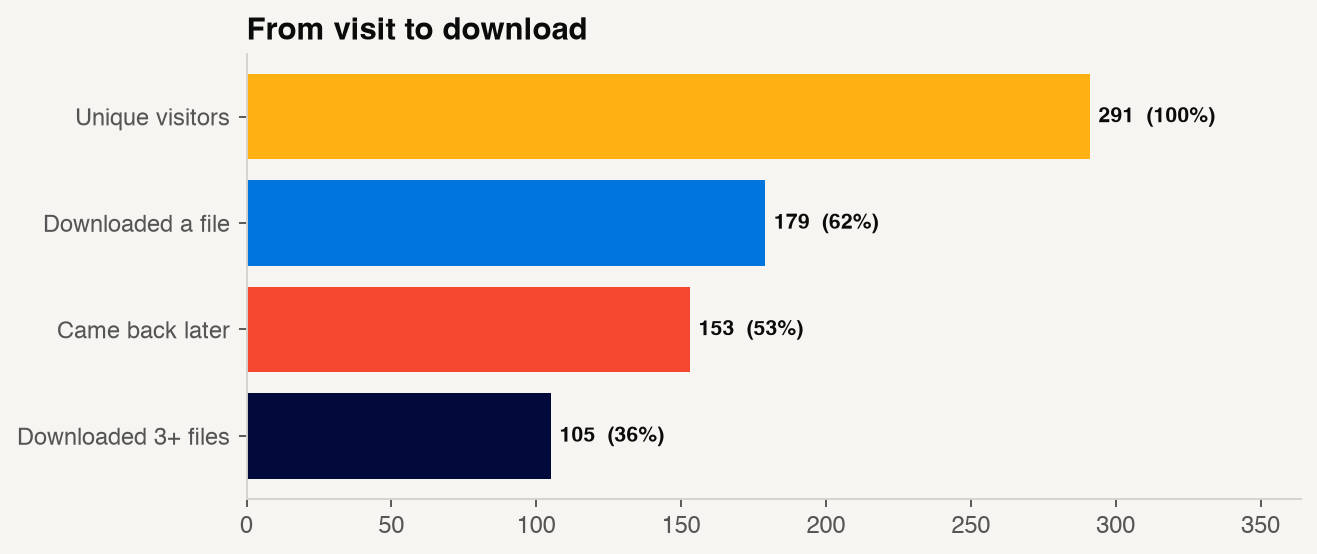
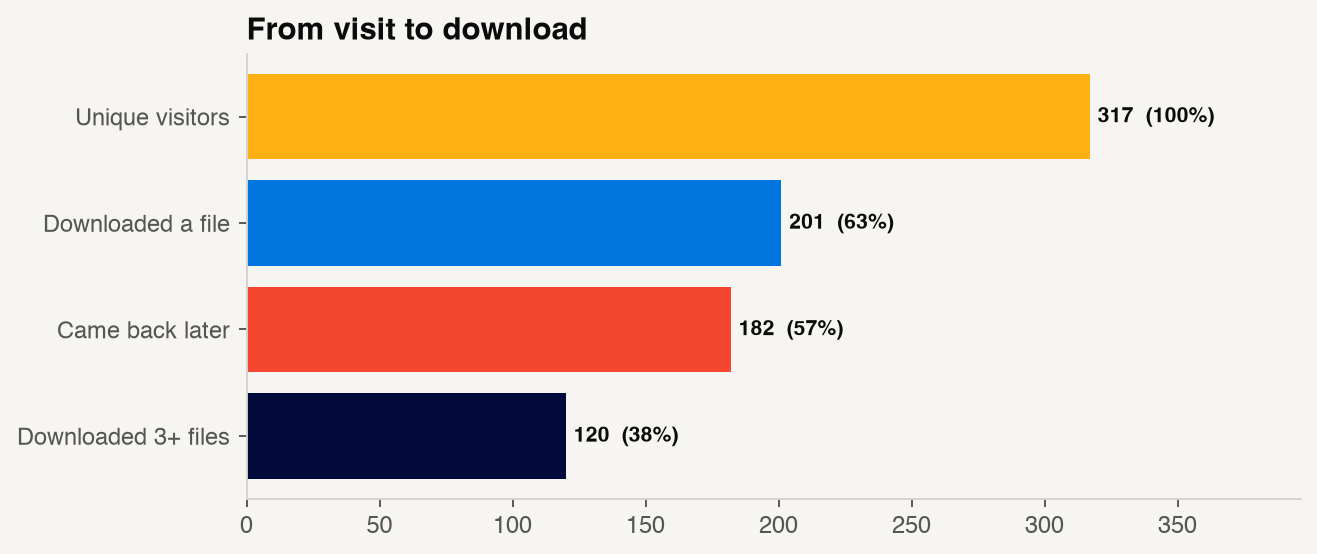
Refresh analytics to 55 hours of data

diff --git a/analytics/make_charts.py b/analytics/make_charts.py
@@ -9,7 +9,7 @@ d=json.load(open(DATA)); geo=json.load(open(GEO))
 IST=timezone(timedelta(hours=5,minutes=30))
 ts=lambda s: datetime.fromisoformat(s.replace("Z","+00:00")).astimezone(IST)
 V,E,G=d["visitors"],d["events"],d["gens"]; OK=[g for g in G if g["status"]=="ok"]
-LAB={"prcv":"PRCV","ml":"ML","dwdm":"DWDM","ds":"DS","rldl":"RLDL","cs_prcv1":"PRCV CS1","cs_prcv2":"PRCV CS2","cs_ml1":"ML CS1","cs_ml2":"ML CS2"}
+LAB={"prcv":"PRCV","ml":"ML","dwdm":"DWDM","ds":"DS","rldl":"RLDL","cs_prcv1":"PRCV CS1","cs_prcv2":"PRCV CS2","cs_ml1":"ML CS1","cs_ml2":"ML CS2","dsnew":"DS (new)"}
 BG="#f7f5f2"; INK="#0b0b0b"; Y="#ffb114"; B="#0075de"; R="#f5472f"; N="#020a3b"; LB="#62aef0"; PEACH="#f6d5bb"
 plt.rcParams.update({"font.family":"Helvetica","axes.facecolor":BG,"figure.facecolor":BG,"axes.edgecolor":"#d6d3cf","axes.spines.top":False,"axes.spines.right":False,"text.color":INK,"axes.labelcolor":INK,"xtick.color":"#555","ytick.color":"#555","axes.titleweight":"bold","axes.titlesize":13,"axes.titlelocation":"left"})
 def save(f,name): f.savefig(f"{OUT}/{name}.png",dpi=170,bbox_inches="tight",facecolor=BG); plt.close(f)

diff --git a/README.md b/README.md
@@ -17,11 +17,11 @@ Every semester, every engineering student has to submit a **lab record file**: t
 
 | | |
 |---|---|
-| **Labs covered** | 5 labs, 55 experiments, plus 4 case studies (9 downloadable products) |
-| **Time to a finished file** | a few seconds (median **3.3 s** click to file) |
+| **Labs covered** | 5 labs, 55 experiments, plus 4 case studies (10 downloadable products, including a second DS format) |
+| **Time to a finished file** | a few seconds (median **3.4 s** click to file) |
 | **Login** | none |
 | **Install** | none, runs in the browser, works on phones |
-| **First 44 hours live** | **291** unique visitors, **895** files delivered, **97.7 %** success rate |
+| **First 55 hours live** | **317** unique visitors, **1,041** files delivered, **97.9 %** success rate |
 
 ---
 
@@ -82,7 +82,7 @@ The second principle is the interesting one. Instead of storing thousands of nea
 
 ## 3. What it does
 
-**Choose** one of nine tiles: PRCV, ML, DWDM, DS, RLDL, or one of four case studies.
+**Choose** a tile: PRCV, ML, DWDM, DS (in the old or the new lab-record format), RLDL, or one of four case studies.
 
 **Personalise** with name, roll number, group, faculty, branch, semester and the computer name that appears in the terminal prompt. Only the name is required.
 
@@ -272,29 +272,29 @@ What that pipeline gave the files:
 
 ## 9. Launch analytics (anonymous)
 
-First **44 hours** after going live (17 Nov, 4 PM to 19 Nov, noon), measured from the product's own usage log (IST). Everything here is aggregated and anonymous.
+First **55 hours** after going live (17 Nov, 4 PM to 19 Nov, 11:30 PM), measured from the product's own usage log (IST). Everything here is aggregated and anonymous.
 
 ### Headline numbers
 
 | Metric | Value |
 |---|---|
-| Page views | **646** |
-| Unique visitors | **291** |
-| Files delivered | **895** |
-| Success rate | **97.7 %** |
-| Returning visitors | **153** (53 %) |
-| Visitors who downloaded at least once | **179** (62 %) |
-| Visitors who downloaded 3 or more files | **105** (36 %) |
-| Median time from click to finished file | **3.3 s** |
+| Page views | **781** |
+| Unique visitors | **317** |
+| Files delivered | **1,041** |
+| Success rate | **97.9 %** |
+| Returning visitors | **182** (57 %) |
+| Visitors who downloaded at least once | **201** (63 %) |
+| Visitors who downloaded 3 or more files | **120** (38 %) |
+| Median time from click to finished file | **3.4 s** |
 | Average file size | **about 3 MB** |
-| Total data delivered | **about 2.7 GB** |
+| Total data delivered | **about 3.2 GB** |
 | Real-time peak | **132 downloads in a single hour** |
 
 ### Traffic, hour by hour
 
 <p align="center"><img src="analytics/01_timeline.png" width="860" alt="Hourly traffic" /></p>
 
-It spread by word of mouth in class group chats: a first wave on the evening it launched, a quiet night, a bigger second day as more classes found it (479 downloads on day two versus 350 on launch day), and steady traffic continuing into day three. The peak hour carried **132 downloads**, handled with no queue, which is exactly the burst the "build on the device" design was meant for.
+It spread by word of mouth in class group chats: a first wave on the evening it launched, a quiet night, a bigger second day as more classes found it (479 downloads on day two versus 350 on launch day), and day three already at 212 downloads by 11:30 PM. The peak hour carried **132 downloads**, handled with no queue, which is exactly the burst the "build on the device" design was meant for.
 
 ### When students use it
 
@@ -306,7 +306,7 @@ Two clear rhythms: **late evening to midnight** (the night-before-submission cru
 
 <p align="center"><img src="analytics/04_funnel.png" width="620" alt="Funnel" /></p>
 
-**62 %** of visitors downloaded something, which is very high for a tool with no onboarding. More than half of all visitors (**53 %**) **came back**, and **36 %** grabbed three or more files.
+**63 %** of visitors downloaded something, which is very high for a tool with no onboarding. More than half of all visitors (**57 %**) **came back**, and **38 %** grabbed three or more files.
 
 ### Which labs people want
 
@@ -314,17 +314,18 @@ Two clear rhythms: **late evening to midnight** (the night-before-submission cru
 
 | Rank | Product | Downloads | Share |
 |---|---|---|---|
-| 1 | PRCV | 203 | 22.7 % |
-| 2 | ML | 146 | 16.3 % |
-| 3 | DWDM | 143 | 16.0 % |
-| 4 | RLDL | 129 | 14.4 % |
-| 5 | DS | 107 | 12.0 % |
-| 6 | PRCV case study 2 | 55 | 6.1 % |
-| 7 | ML case study 1 | 48 | 5.4 % |
-| 8 | ML case study 2 | 40 | 4.5 % |
-| 9 | PRCV case study 1 | 24 | 2.7 % |
+| 1 | PRCV | 220 | 21.1 % |
+| 2 | DWDM | 185 | 17.8 % |
+| 3 | DS | 158 | 15.2 % |
+| 4 | ML | 154 | 14.8 % |
+| 5 | RLDL | 140 | 13.4 % |
+| 6 | PRCV case study 2 | 55 | 5.3 % |
+| 7 | ML case study 1 | 49 | 4.7 % |
+| 8 | ML case study 2 | 40 | 3.8 % |
+| 9 | PRCV case study 1 | 25 | 2.4 % |
+| 10 | DS (new format) | 15 | 1.4 % |
 
-The four case studies were added **after** launch and still took nearly **a fifth of all downloads** (167 of 895), so they are worth the effort.
+The four case studies were added **after** launch and still took about **a sixth of all downloads** (169 of 1,041), so they are worth the effort.
 
 ### Students who grabbed the whole set
 
@@ -342,29 +343,29 @@ About **96 %** of visitors are in India, and **most sit inside Delhi NCR**: Delh
 
 <p align="center"><img src="analytics/05_devices.png" width="860" alt="Devices" /></p>
 
-**About 38 % of downloads came from phones.** Students download first and print later, so mobile had to be a first-class citizen, not an afterthought. Chrome dominates, with Safari on iPhones next.
+**About 37 % of downloads came from phones.** Students download first and print later, so mobile had to be a first-class citizen, not an afterthought. Chrome dominates, with Safari on iPhones next.
 
 ### Loyalty and speed
 
 <p align="center"><img src="analytics/07_loyalty_speed.png" width="860" alt="Loyalty and speed" /></p>
 
-Left: how many times each visitor came back. Right: how long each download took end to end. The distribution is tight, with a median of **3.3 seconds**, even while 130 students were hitting the site in the same hour.
+Left: how many times each visitor came back. Right: how long each download took end to end. The distribution is tight, with a median of **3.4 seconds**, even while 130 students were hitting the site in the same hour.
 
 ### Reliability
 
 | Outcome | Count |
 |---|---|
-| Completed | 895 |
+| Completed | 1,041 |
 | Politely stopped by the hourly limit | 7 |
 | Rejected as bad input | 5 |
-| Left before finishing | 9 |
+| Left before finishing | 10 |
 
 ---
 
 ## 10. What I learned
 
 1. **The boring part is the product.** Students did not want a clever website. They wanted their weekend back. Most of the value is the verified content and the polish on it.
-2. **Free, instant, no-login wins.** 62 % of visitors converting with zero onboarding says friction was the enemy all along.
+2. **Free, instant, no-login wins.** 63 % of visitors converting with zero onboarding says friction was the enemy all along.
 3. **Move work to the user's device.** It turned a "server melts on submission night" problem into a non-problem, and kept hosting cost near zero.
 4. **Design for a stressed person at midnight on a phone.** Big tiles, one required field, instant feedback.
 5. **Add the second wave of content after launch.** The case studies came from watching what students asked for next.
